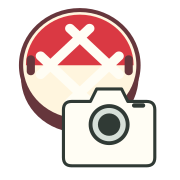
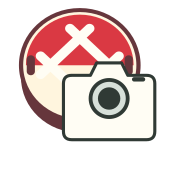
Move camera upward to cover more of the lower lid

Changed region(s): [[0.3333, 0.3333, 0.8889, 0.9444]]

diff --git a/docs/shared-brand-icon.md b/docs/shared-brand-icon.md
@@ -4,6 +4,8 @@
 
 内側の格子線は太い白（`#FFFDF4`）、外枠は茶色の細い縁。白いカメラは初稿から約10%縮小。配色は赤白で確定。
 
+カメラは上寄せにして、ふたの白い下半分の露出を減らす。
+
 - `public/brand-icon.svg` をヘッダーとfaviconで共用する。
 - 図鑑の `apps/web/assets/brand-icon.svg` と同一のSVGを使う。変更時は両サイトを更新する。
 - faviconは16/32/48pxのICO、48/96pxのPNG、SVG。ホーム画面用は180px、manifest用は余白をつけた192/512px。
